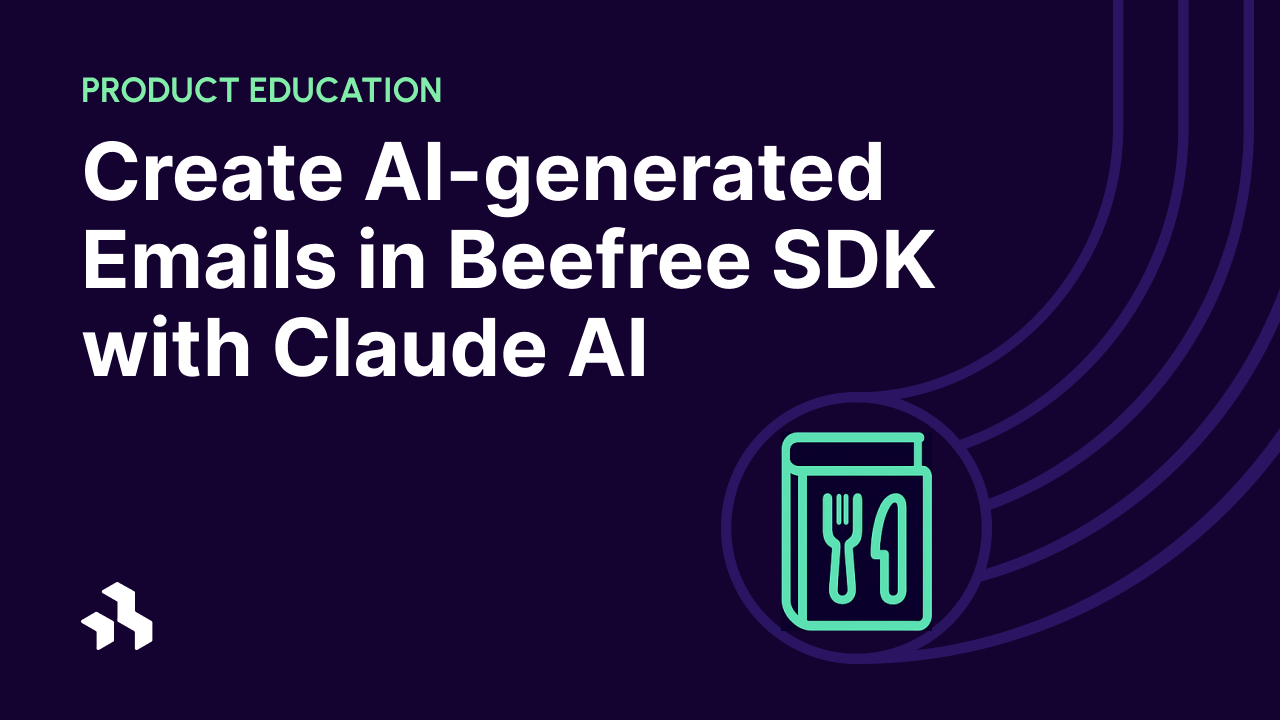
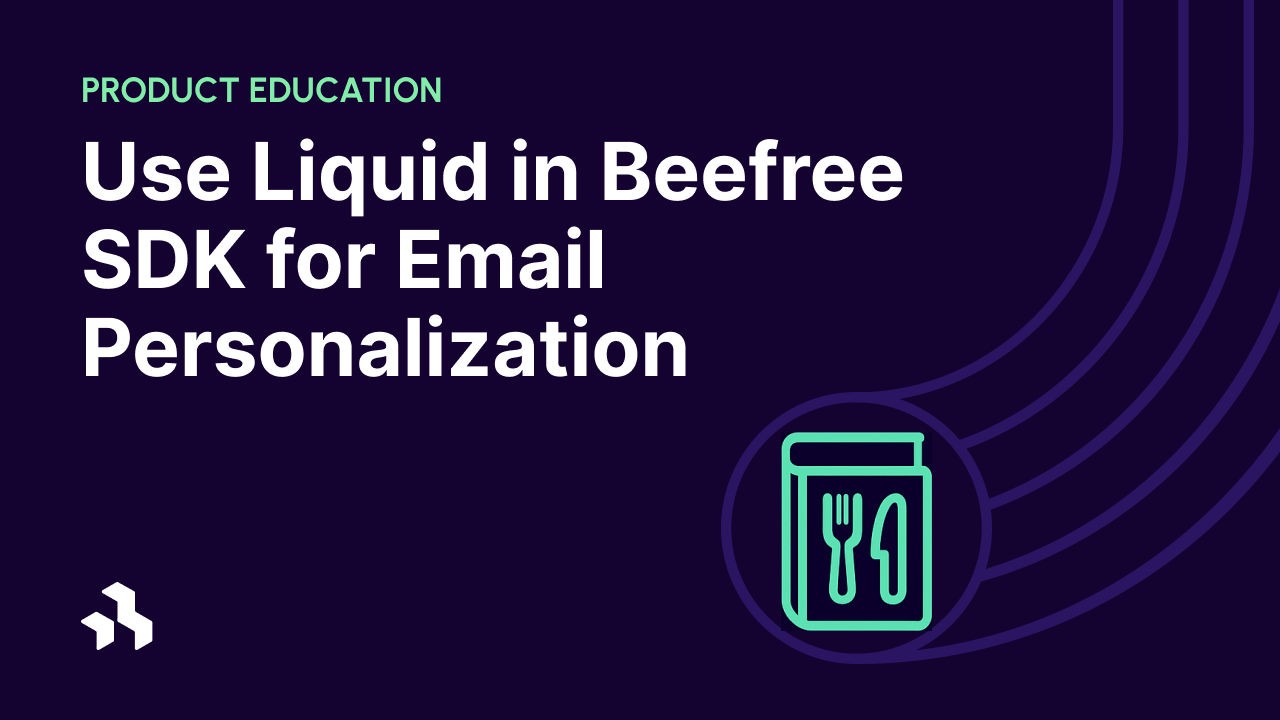
GITBOOK-427: HSR Notes

Changed region(s): [[0.0625, 0.1833, 0.75, 0.3972], [0.0625, 0.4278, 0.5625, 0.55]]

diff --git a/rows/reusable-content/create/save/implement-hosted-saved-rows.md b/rows/reusable-content/create/save/implement-hosted-saved-rows.md
@@ -1,14 +1,14 @@
 # Implement Hosted Saved Rows
 
 {% hint style="info" %}
-This feature is available on Beefree SDK [Core plan](https://dam.beefree.io/pluginpricing) and above.
+This feature is available on Beefree SDK [Core plan](https://dam.beefree.io/pluginpricing) and above. It is enabled by default.
 {% endhint %}
 
 ## **Overview**
 
-With Hosted Saved Rows, you can provide your end users with the option to save and manage reusable content directly within the builder. Hosted Saved Rows can be activated through a toggle within the [Developer Console](https://developers.beefree.io/accounts/login/?from=website_menu), which makes it an excellent option for those who are interested in a fast implementation of [Saved Rows](./). Once you toggle this feature on, your end users will be able to save the rows they create within the builder, and reuse them easily in the future. They can also perform actions to manage the rows that they save, such as renaming them, deleting them, categorizing, or recategorizing them. This page covers [the steps](implement-hosted-saved-rows.md#enable-hosted-saved-rows) you need to take to successfully implement [Hosted Saved Rows](../../../storage/hosted-saved-rows.md). &#x20;
+With Hosted Saved Rows, you can provide your end users with the option to save and manage reusable content directly within the builder. Hosted Saved Rows are on by default. You can disable and re-enable them through a check within the [Developer Console](https://developers.beefree.io/accounts/login/?from=website_menu). With this feature, your end users will be able to save the rows they create within the builder, and reuse them easily in the future. They can also perform actions to manage the rows that they save, such as renaming them, deleting them, categorizing, or recategorizing them. This page covers [the steps](implement-hosted-saved-rows.md#enable-hosted-saved-rows) you need to take to successfully configure [Hosted Saved Rows](../../../storage/hosted-saved-rows.md). &#x20;
 
-The following video tutorial discusses what Saved Rows are, how reusable content can support your end users throughout their content creation journeys, and how you can implement Hosted Saved Rows in your application.
+The following video tutorial discusses what Saved Rows are, how reusable content can support your end users throughout their content creation journeys, and how you can customize Hosted Saved Rows in your application.
 
 Reference the [GitHub repository with a sample implementation](https://github.com/BeefreeSDK/beefree-sdk-hosted-saved-rows-demo) of Hosted Saved Rows to learn more.
 
@@ -16,22 +16,26 @@ Reference the [GitHub repository with a sample implementation](https://github.co
 Save Time with Hosted Rows Video Tutorial
 {% endembed %}
 
-## **Enable Hosted Saved Rows**
+## **Enable or Disable Hosted Saved Rows**
 
-To enable Hosted Saved Rows for your application, follow these steps:
+{% hint style="info" %}
+Hosted Saved Rows are enabled by default. Take the steps in this section to disable or re-enable Hosted Saved Rows.
+{% endhint %}
+
+To enable or disable Hosted Saved Rows for your application, follow these steps:
 
 1. Log in to the [Developer Console](https://developers.beefree.io/accounts/login/?from=website_menu).
 2. Navigate to the application you'd like to configure Hosted Saved Rows for.
 3. Click on **Details.**
 4. Navigate to **Application configuration** and click **View more.**
 5. Scroll to the **Saved Rows** section.
-   1.  Toggle on the **Hosted on the Beefree SDK Infrastructure** option.
+   1.  Check the **Hosted on the Beefree SDK Infrastructure** option to on or off.
 
-       <figure><img src="../../../../.gitbook/assets/CleanShot 2024-11-20 at 20.28.15.png" alt="Beefree SDK Developer console user interface displaying the toggle options for hosted and self-hosted saved rows"><figcaption></figcaption></figure>
-   2.  Read the pricing information in the popup closely, because additional fees may apply.\*&#x20;
+       <figure><img src="../../../../.gitbook/assets/CleanShot 2024-11-20 at 20.28.15.png" alt="Beefree SDK Developer console user interface displaying the toggle options for hosted and self-hosted saved rows" width="563"><figcaption></figcaption></figure>
+   2.  (Applicable if you are enabling) Read the pricing information in the popup closely, because additional fees may apply.\*&#x20;
 
-       <figure><img src="../../../../.gitbook/assets/CleanShot 2024-11-20 at 20.28.37.png" alt="Beefree SDK Developer console user interface displaying the popup confirming usage based fees may apply"><figcaption></figcaption></figure>
-   3. If you'd like to proceed, confirm you read and understand the pricing to activate the feature.
+       <figure><img src="../../../../.gitbook/assets/CleanShot 2024-11-20 at 20.28.37.png" alt="Beefree SDK Developer console user interface displaying the popup confirming usage based fees may apply" width="443"><figcaption></figcaption></figure>
+   3. Save your changes.
 
 {% hint style="info" %}
 **Important:** Keep in mind that charges apply for saved rows that are hosted not only in your production applications, but also for your development applications.
@@ -46,14 +50,14 @@ To enable Hosted Saved Rows for your application, follow these steps:
 
 **Note:** Visit our [Usage-based fees article](https://devportal.beefree.io/hc/en-us/articles/4403095825042-Usage-based-fees#h_01JE4K84YM3M040X7JBQR7GVW1) to learn more about Hosted Saved Rows pricing.
 
-Once you've successfully enabled Hosted Saved Rows in the [Developer Console](https://developers.beefree.io/accounts/login/?from=website_menu), you'll access the following:
+Hosted Saved Rows give you access to the following:
 
 * Rows saved by your application's end users will be stored and hosted in the Beefree SDK storage option.
 * End users can save rows directly to the hosted infrastructure and retrieve them as needed.
 
 ## User Interface and End User Experience
 
-Once you successfully enable Hosted Saved Rows within the Developer Console, your application's end users will have access to a new **Save** icon for each row, and other options for managing the rows they save.
+When enabled, your application's end users will have access to a new **Save** icon for each row, and other options for managing the rows they save.
 
 The Hosted Saved Rows UI includes the following experience for end users:
 
@@ -188,7 +192,7 @@ advancedPermissions:{
 
 ## **Making Saved Rows Available to Select Users**
 
-Once Saved Rows is enabled globally in the [Developer Console](https://developers.beefree.io/accounts/login/?from=website_menu), you can disable it for specific users using the `saveRows` parameter in the `beeConfig` document. This lets you control access based on subscription plans, feature purchases, or beta testing.
+You can disable Saved Rows for specific users using the `saveRows` parameter in the `beeConfig` document. This lets you control access based on subscription plans, feature purchases, or beta testing.
 
 Take the following step to disable access for specific users:
 
@@ -256,7 +260,7 @@ In the following image, the **ROWS** tab is no longer available to the end user 
 
 Reference the [Hosted Saved Rows Webinar](../../../storage/hosted-saved-rows.md#webinar-tutorial) to learn more about other customizations that are compatible with Hosted Saved Rows. The webinar discusses the following topics:
 
-* How to enable Hosted Saved Rows
+* What Hosted Saved Rows are
 * How to use [Advanced Permissions](../../../../other-customizations/advanced-options/advanced-permissions.md#hosted-saved-rows) with Hosted Saved Rows
 * How to restrict which end users can save rows
 * How to customize the modals related to Hosted Saved Rows
@@ -267,5 +271,3 @@ Reference the [sample code in this GitHub repository](https://github.com/Beefree
 Visit the [Hosted Saved Rows page](../../../storage/hosted-saved-rows.md) to also learn more about the following topics:
 
 * [Troubleshooting and FAQs](../../../storage/hosted-saved-rows.md#troubleshooting-and-faqs)
-* [Deactivating Hosted Saved Rows](../../../storage/hosted-saved-rows.md#deactivating-hosted-saved-rows)
-* [What Happens When Deactivated](../../../storage/hosted-saved-rows.md#what-happens-when-deactivated)

diff --git a/rows/storage/hosted-saved-rows.md b/rows/storage/hosted-saved-rows.md
@@ -6,7 +6,7 @@ This feature is available on Beefree SDK [Core plan](https://dam.beefree.io/plug
 
 ## **Overview**
 
-Hosted Saved Rows offers a fully managed solution, eliminating the need to set up and maintain backend systems. With this option, Beefree SDK handles storage, security, scaling, and updates, allowing your team to focus on delivering a great user experience. In addition to managing storage, this option also provides you with a [ready-to-go user interface](hosted-saved-rows.md#ready-to-go-user-interface) made available to your application's end users through a toggle in the [Developer Console](https://developers.beefree.io/accounts/login/?from=website_menu).&#x20;
+Hosted Saved Rows offers a fully managed solution, eliminating the need to set up and maintain backend systems. With this option, Beefree SDK handles storage, security, scaling, and updates, allowing your team to focus on delivering a great user experience. In addition to managing storage, this option also provides you with a [ready-to-go user interface](hosted-saved-rows.md#ready-to-go-user-interface) made available to your application's end users.&#x20;
 
 This [ready-to-go UI](hosted-saved-rows.md#ready-to-go-user-interface) enables application end users to:
 
@@ -18,7 +18,7 @@ This [ready-to-go UI](hosted-saved-rows.md#ready-to-go-user-interface) enables a
 
 ### **Key Benefits**
 
-* Fully managed by Beefree SDK, and activated through a toggle in the Developer Console.
+* Available by default for Core plans and above.
 * Ideal for teams that want a quick setup without maintaining backend systems.
 * Offers centralized storage, security, and reliability, while also providing a user interface to save and  reuse rows within your application.
 * Allows for advanced controls through configuring [Advanced Permissions for Hosted Saved Rows](../../other-customizations/advanced-options/advanced-permissions.md#hosted-saved-rows).
@@ -27,7 +27,7 @@ This [ready-to-go UI](hosted-saved-rows.md#ready-to-go-user-interface) enables a
 
 Learn more about how to enable and customize Hosted Saved Rows in the following video. The webinar discusses:
 
-* How to enable Hosted Saved Rows
+* What Hosted Saved Rows are
 * How to use [Advanced Permissions](../../other-customizations/advanced-options/advanced-permissions.md#hosted-saved-rows) with Hosted Saved Rows
 * How to restrict which end users can save rows
 * How to customize the modals related to Hosted Saved Rows
@@ -39,21 +39,21 @@ Reference the [sample code in this GitHub repository](https://github.com/Beefree
 Webinar on Hosted Saved Rows
 {% endembed %}
 
-## **Enable Hosted Saved Rows**
+## **Disable or Enable Hosted Saved Rows**
 
-To enable Hosted Saved Rows for your application, follow these steps:
+To disable or enable Hosted Saved Rows for your application, follow these steps:
 
 1. Log in to the [Developer Console](https://developers.beefree.io/accounts/login/?from=website_menu).
 2. Navigate to the application you'd like to configure Hosted Saved Rows for.
 3. Click on **Details.**
 4. Navigate to **Application configuration** and click **View more.**
 5. Scroll to the **Saved Rows** section.
-   1.  Toggle on the **Hosted on the Beefree SDK Infrastructure** option.
+   1.  Check on the **Hosted on the Beefree SDK Infrastructure** option to enable or disable it.
 
-       <figure><img src="../../.gitbook/assets/CleanShot 2024-11-20 at 20.28.15.png" alt=""><figcaption></figcaption></figure>
-   2.  Read the pricing information in the popup closely, because additional fees may apply.\*&#x20;
+       <figure><img src="../../.gitbook/assets/CleanShot 2024-11-20 at 20.28.15.png" alt="" width="563"><figcaption></figcaption></figure>
+   2.  (Applicable if enabling) Read the pricing information in the popup closely, because additional fees may apply.\*&#x20;
 
-       <figure><img src="../../.gitbook/assets/CleanShot 2024-11-20 at 20.28.37.png" alt=""><figcaption></figcaption></figure>
+       <figure><img src="../../.gitbook/assets/CleanShot 2024-11-20 at 20.28.37.png" alt="" width="443"><figcaption></figcaption></figure>
    3. If you'd like to proceed, confirm you read and understand the pricing to activate the feature.
 
 {% hint style="info" %}
@@ -69,7 +69,7 @@ To enable Hosted Saved Rows for your application, follow these steps:
 
 **Note:** Visit our [Usage-based fees article](https://devportal.beefree.io/hc/en-us/articles/4403095825042-Usage-based-fees#h_01JE4K84YM3M040X7JBQR7GVW1) to learn more about Hosted Saved Rows pricing.
 
-Once you've successfully enabled Hosted Saved Rows in the [Developer Console](https://developers.beefree.io/accounts/login/?from=website_menu), you'll access the following:
+With Hosted Saved Rows, you'll access the following:
 
 * Rows saved by your application's end users will be stored and hosted in the Beefree SDK storage option.
 * End users can save rows directly to the hosted infrastructure and retrieve them as needed.
@@ -79,7 +79,7 @@ Once you've successfully enabled Hosted Saved Rows in the [Developer Console](ht
 If you decide to deactivate Hosted Saved Rows:
 
 1. Return to the **Beefree SDK Console**.
-2. Toggle the **Hosted on the Beefree SDK Infrastructure** option to **off**.
+2. Check the **Hosted on the Beefree SDK Infrastructure** option to **off**.
 3. Save your changes.
 
 ### **What Happens When Deactivated**

diff --git a/rows/storage/README.md b/rows/storage/README.md
@@ -8,7 +8,7 @@ Beefree SDK offers two hosting options: [Hosted Saved Rows](./#hosted-saved-rows
 
 ## Hosted Saved Rows
 
-Hosted Saved Rows offers a fully managed solution, eliminating the need to set up and maintain backend systems. With this option, Beefree SDK handles storage, security, scaling, and updates, allowing your team to focus on delivering a great user experience. In addition to managing storage, this option also provides you with a ready-to-go user interface made available to your application's end users through a toggle in the Developer Console.&#x20;
+Hosted Saved Rows offers a fully managed solution, eliminating the need to set up and maintain backend systems. With this option, Beefree SDK handles storage, security, scaling, and updates, allowing your team to focus on delivering a great user experience. In addition to managing storage, this option also provides you with a ready-to-go user interface made available to your application's end users by default.&#x20;
 
 This ready-to-go UI enables application end users to:
 
@@ -20,7 +20,7 @@ This ready-to-go UI enables application end users to:
 
 ### **Key Benefits**
 
-* Fully managed by Beefree SDK, and activated through a toggle in the Developer Console.
+* Fully managed by Beefree SDK, and available by default for Core applications and above.
 * Ideal for teams that want a quick setup without maintaining backend systems.
 * Offers centralized storage, security, and reliability, while also providing a user interface to save and  reuse rows within your application.
 
@@ -38,14 +38,14 @@ Self-Hosted Saved Rows gives teams complete control over how Saved Rows are stor
 
 Both options allow end users to save and reuse rows on the frontend, but the best hosting option for your team will depend on your priorities concerning setup complexity, development resources (for storage and building a UI), and ongoing maintenance.
 
-| Feature                                                                  | Hosted Saved Rows                               | Self-Hosted Saved Rows                                |
-| ------------------------------------------------------------------------ | ----------------------------------------------- | ----------------------------------------------------- |
-| Control                                                                  | Managed by Beefree SDK                          | Full control over storage and management              |
-| Setup Complexity                                                         | Done through a toggle in the  Developer Console | Higher setup complexity requiring backend development |
-| Ready-to-go user interface for end users to create and manage Saved Rows | Done through a toggle in the  Developer Console | Requires development and use of Content Dialog        |
-| Security Responsibility                                                  | Managed by Beefree SDK                          | Fully managed by your team                            |
-| Maintenance                                                              | Beefree SDK handles scaling and updates         | Ongoing maintenance and updates required              |
-| Time-to-Market                                                           | Faster due to managed solution                  | Longer due to backend and frontend setup              |
+| Feature                                                                  | Hosted Saved Rows                                    | Self-Hosted Saved Rows                                |
+| ------------------------------------------------------------------------ | ---------------------------------------------------- | ----------------------------------------------------- |
+| Control                                                                  | Managed by Beefree SDK                               | Full control over storage and management              |
+| Setup Complexity                                                         | Available by default for Core applications and above | Higher setup complexity requiring backend development |
+| Ready-to-go user interface for end users to create and manage Saved Rows | Available by default for Core applications and above | Requires development and use of Content Dialog        |
+| Security Responsibility                                                  | Managed by Beefree SDK                               | Fully managed by your team                            |
+| Maintenance                                                              | Beefree SDK handles scaling and updates              | Ongoing maintenance and updates required              |
+| Time-to-Market                                                           | Faster due to managed solution                       | Longer due to backend and frontend setup              |
 
 ## Next Steps
 

diff --git a/resources/cookbook/README.md b/resources/cookbook/README.md
@@ -8,4 +8,4 @@ description: Reference quick recipes for accomplishing specific tasks with Beefr
 
 ***
 
-<table data-card-size="large" data-view="cards"><thead><tr><th></th><th data-hidden data-card-target data-type="content-ref"></th><th data-hidden data-card-cover data-type="files"></th></tr></thead><tbody><tr><td>Create AI-generated Emails in Beefree SDK with Claude AI</td><td><a href="create-ai-generated-emails-in-beefree-sdk-with-claude-ai.md">create-ai-generated-emails-in-beefree-sdk-with-claude-ai.md</a></td><td><a href="../../.gitbook/assets/image (6).png">image (6).png</a></td></tr><tr><td>AI-generated Email Sequences in Beefree SDK with Claude AI</td><td><a href="ai-generated-email-sequences-in-beefree-sdk-with-claude-ai.md">ai-generated-email-sequences-in-beefree-sdk-with-claude-ai.md</a></td><td><a href="../../.gitbook/assets/AI-generated-email-sequences-in-Beefree-SDK-with-Claude-AI.png">AI-generated-email-sequences-in-Beefree-SDK-with-Claude-AI.png</a></td></tr><tr><td>Build Full Stack Martech Apps with Lovable and Beefree SDK</td><td><a href="build-full-stack-martech-apps-with-lovable-and-beefree-sdk.md">build-full-stack-martech-apps-with-lovable-and-beefree-sdk.md</a></td><td><a href="../../.gitbook/assets/build-full-stack-martech-apps-with-lovable-and-beefree-sdk.png">build-full-stack-martech-apps-with-lovable-and-beefree-sdk.png</a></td></tr><tr><td>Edit Templates in Beefree SDK with Claude AI</td><td><a href="edit-templates-in-beefree-sdk-with-claude-ai.md">edit-templates-in-beefree-sdk-with-claude-ai.md</a></td><td><a href="../../.gitbook/assets/edit-templates-in-beefree-sdk-with-claude-ai.png">edit-templates-in-beefree-sdk-with-claude-ai.png</a></td></tr></tbody></table>
+<table data-card-size="large" data-view="cards"><thead><tr><th></th><th data-hidden data-card-target data-type="content-ref"></th><th data-hidden data-card-cover data-type="image">Cover image</th></tr></thead><tbody><tr><td>Create AI-generated Emails in Beefree SDK with Claude AI</td><td><a href="create-ai-generated-emails-in-beefree-sdk-with-claude-ai.md">create-ai-generated-emails-in-beefree-sdk-with-claude-ai.md</a></td><td><a href="../../.gitbook/assets/image (6) (1).png">image (6) (1).png</a></td></tr><tr><td>AI-generated Email Sequences in Beefree SDK with Claude AI</td><td><a href="ai-generated-email-sequences-in-beefree-sdk-with-claude-ai.md">ai-generated-email-sequences-in-beefree-sdk-with-claude-ai.md</a></td><td><a href="../../.gitbook/assets/AI-generated-email-sequences-in-Beefree-SDK-with-Claude-AI.png">AI-generated-email-sequences-in-Beefree-SDK-with-Claude-AI.png</a></td></tr><tr><td>Build Full Stack Martech Apps with Lovable and Beefree SDK</td><td><a href="build-full-stack-martech-apps-with-lovable-and-beefree-sdk.md">build-full-stack-martech-apps-with-lovable-and-beefree-sdk.md</a></td><td><a href="../../.gitbook/assets/build-full-stack-martech-apps-with-lovable-and-beefree-sdk.png">build-full-stack-martech-apps-with-lovable-and-beefree-sdk.png</a></td></tr><tr><td>Edit Templates in Beefree SDK with Claude AI</td><td><a href="edit-templates-in-beefree-sdk-with-claude-ai.md">edit-templates-in-beefree-sdk-with-claude-ai.md</a></td><td><a href="../../.gitbook/assets/edit-templates-in-beefree-sdk-with-claude-ai.png">edit-templates-in-beefree-sdk-with-claude-ai.png</a></td></tr><tr><td>Use Liquid in Beefree SDK for Email Personalization</td><td><a href="use-liquid-in-beefree-sdk-for-email-personalization.md">use-liquid-in-beefree-sdk-for-email-personalization.md</a></td><td><a href="../../.gitbook/assets/image (6).png">image (6).png</a></td></tr></tbody></table>

diff --git a/rows/reusable-content/README.md b/rows/reusable-content/README.md
@@ -57,15 +57,15 @@ Visit the [Beefree SDK playground](https://developers.beefree.io/playground) to 
 
 #### Hosted Saved Rows
 
-Hosted Saved Rows allow your end users to save and manage their own rows to be used later–a powerful way to help them streamline their workflows!
+Hosted Saved Rows allow your end users to save and manage their own rows. This supports them in saving the content they've created and reusing it again at a later date.
 
-Also, Hosted Saved Rows simultaneously provides both a storage solution and user interface your application's end users can engage with to save and manage their rows.
+Hosted Saved Rows provides both a storage solution and user interface your end users can engage with to save and manage their rows.
 
-In the following GIF, with Hosted Saved Rows, Beefree SDK provides the user interface and infrastructure to power Saved Rows so you can bring this feature to your end users instantly.  &#x20;
+The following GIF shows an example user interface displaying how Hosted Saved Rows will appear to your end users on the frontend of your application.  &#x20;
 
 <figure><img src="../../.gitbook/assets/CleanShot 2024-12-03 at 18.22.16.gif" alt=""><figcaption></figcaption></figure>
 
-[Implementing Hosted Saved Rows](create/save/implement-hosted-saved-rows.md) takes only a few seconds, because it activated through a toggle in the [Beefree SDK Developer Console](https://developers.beefree.io/accounts/login/?from=website_menu). The following image shows how the toggle looks like in the [Developer Console](https://developers.beefree.io/accounts/login/?from=website_menu). &#x20;
+Hosted Saved Rows are enabled by default. The following image shows how the toggle looks like in the [Developer Console](https://developers.beefree.io/accounts/login/?from=website_menu). &#x20;
 
 <figure><img src="../../.gitbook/assets/CleanShot 2024-12-03 at 18.26.16.png" alt=""><figcaption></figcaption></figure>
 

diff --git a/rows/reusable-content/create/save/README.md b/rows/reusable-content/create/save/README.md
@@ -61,8 +61,8 @@ There, users can:
 
 There are two paths you can take to activate and store Saved Rows for your application:
 
-* [Hosted Saved Rows](implement-hosted-saved-rows.md)
-* [Self-Hosted Saved Rows](../../../storage/self-hosted-saved-rows.md)
+* [Hosted Saved Rows](implement-hosted-saved-rows.md): Enabled by default. Provides a storage solution and user interface.
+* [Self-Hosted Saved Rows](../../../storage/self-hosted-saved-rows.md): Requires activation in the Beefree SDK console, along with creating your own endpoints to connect a database.
 
 Both paths provide their own set of benefits and limitations. It is important to familiarize yourself with the benefits and limitations of each option to choose the storage and activation solution that is best for you and your application's needs. For more detailed information on both activation routes, reference [Implement Hosted Saved Rows](implement-hosted-saved-rows.md) and Implement [Self-Hosted Saved Rows](implement-self-hosted-saved-rows/).
 
